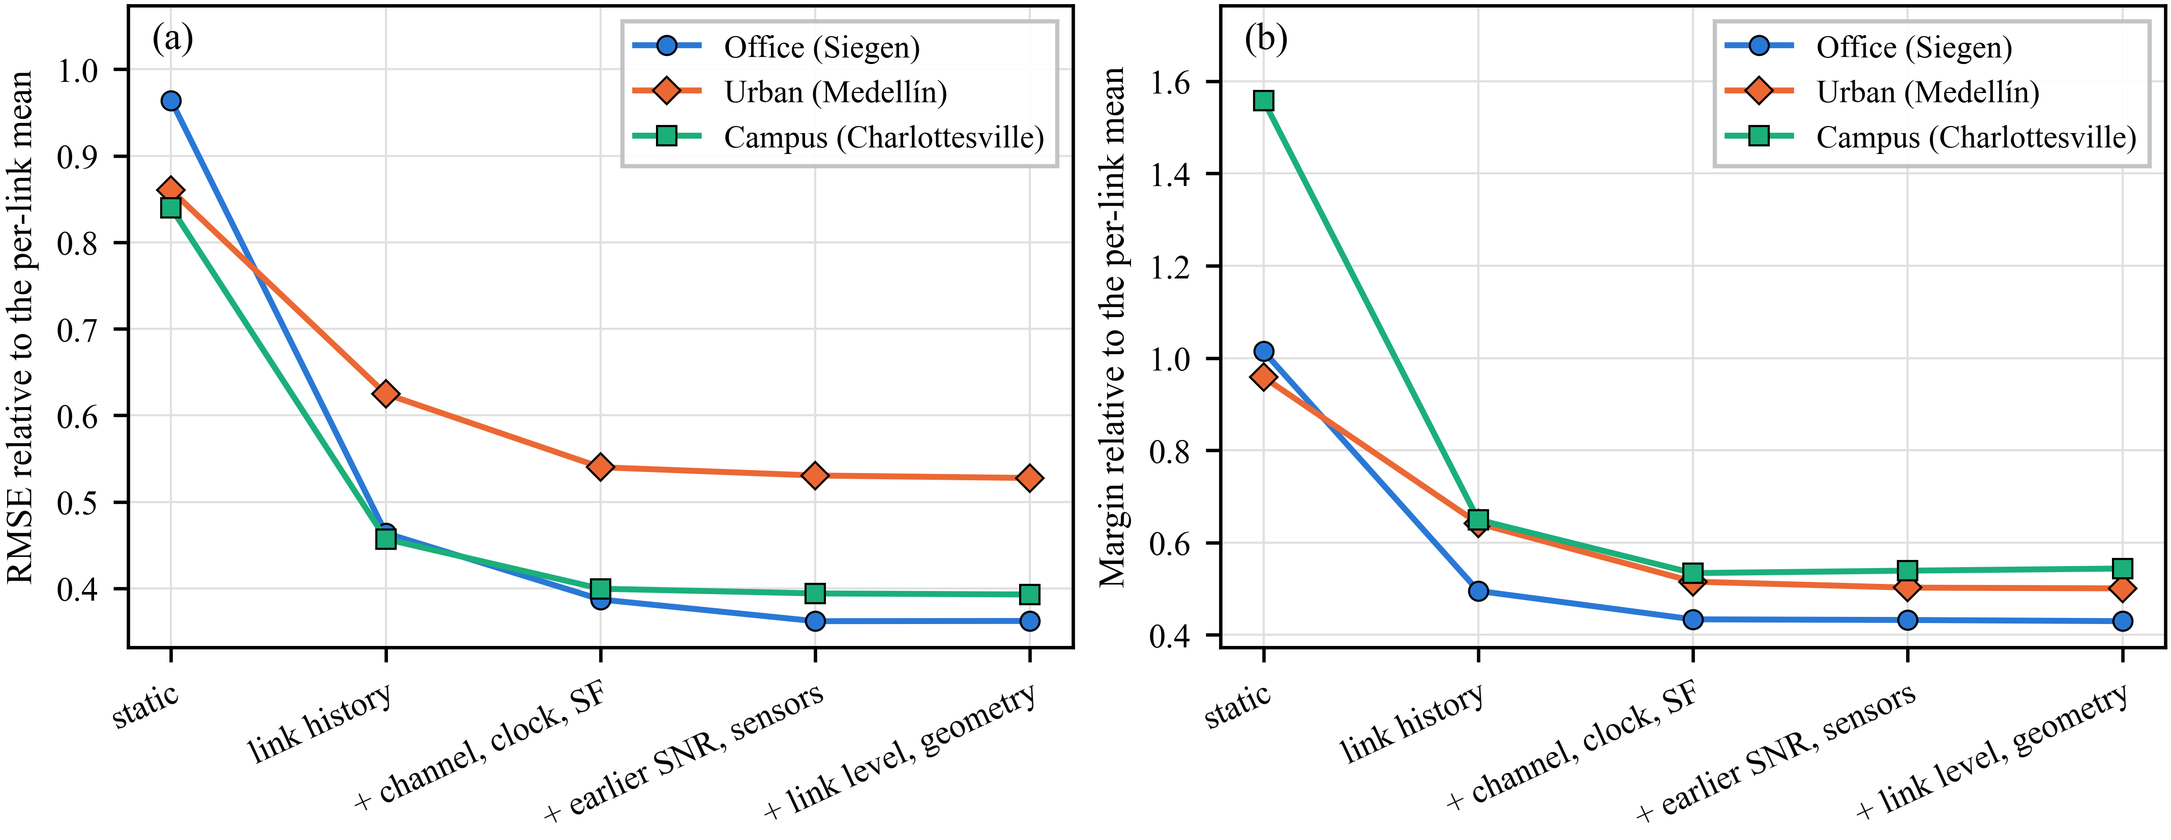
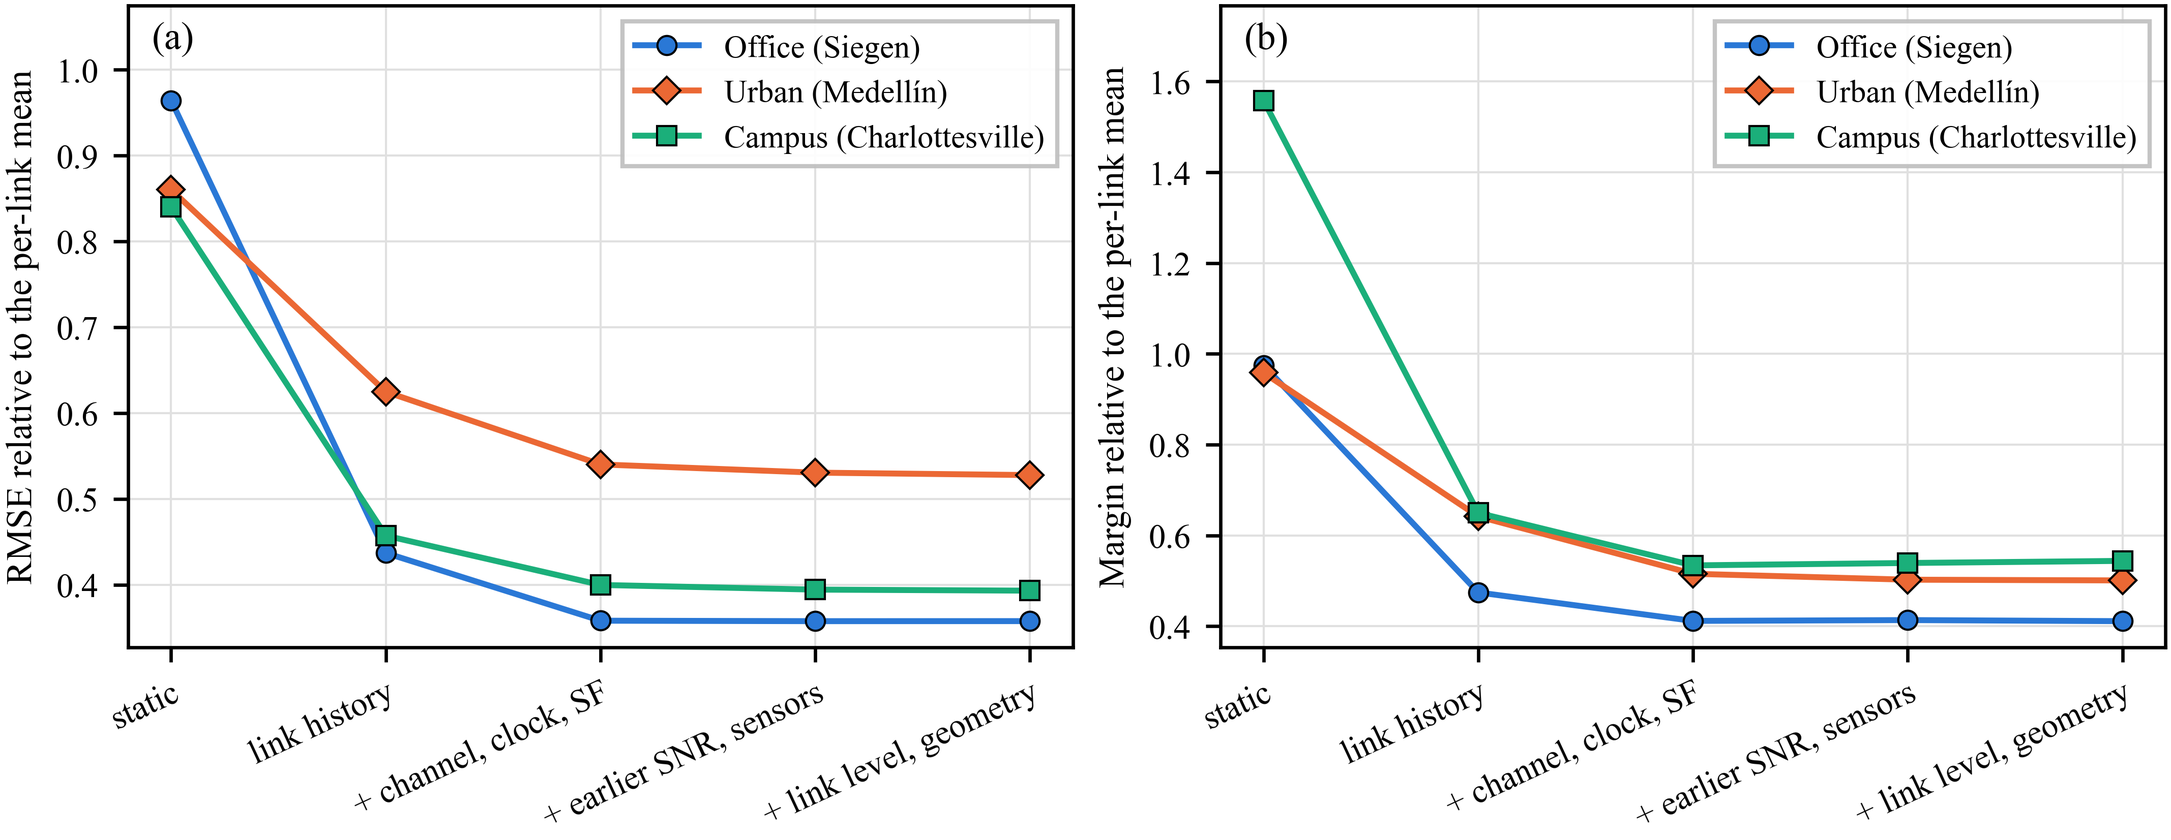
README: results of the ANN fix (ANN 4.52 dB, the best static model; static margins 17.8 to 18.5 dB; unseen link 6.4 to 11.0 dB; steps table; run times); the three ladder, margin and public-data figures were still the version-3 copies

diff --git a/README.md b/README.md
@@ -10,7 +10,7 @@
 
 This study compares analytical and empirical indoor propagation laws, linear models, tree ensembles, nearest-neighbour regression and neural networks on a later period of LoRaWAN path loss measurements. It then uses out-of-fold errors to estimate fade margins at specified residual-coverage targets, and asks how those margins depend on what the predictor knows: geometry and environmental sensors only, or also the link's own earlier packets.
 
-RMSE and the upper residual tail are distinct objectives. With geometry and sensors alone the 99% fade margin is 17.8 to 20.1 dB for every learned model and the calibrated COST 231 multi-wall model, although held-out RMSE ranges from 4.7 to 6.4 dB. With the link's earlier packets it falls to 7.7 to 9.8 dB when calibrated on the whole year, which includes SF11 and SF12 rows that the hold-out lacks. A margin that also conditions on the spreading factor and the state of the link needs about 4 dB on the hold-out. Notebooks 16 to 21 test the margins as quantile forecasts, compare the history models with the estimators of adaptive data rate schemes, measure what each group of inputs adds, repeat the ladder on two public datasets, and report the mean absolute error and the correlation within each link.
+RMSE and the upper residual tail are distinct objectives. With geometry and sensors alone the 99% fade margin is 17.8 to 18.5 dB for every learned model and the calibrated COST 231 multi-wall model, although held-out RMSE ranges from 4.5 to 6.4 dB. With the link's earlier packets it falls to 7.7 to 9.8 dB when calibrated on the whole year, which includes SF11 and SF12 rows that the hold-out lacks. A margin that also conditions on the spreading factor and the state of the link needs about 4 dB on the hold-out. Notebooks 16 to 21 test the margins as quantile forecasts, compare the history models with the estimators of adaptive data rate schemes, measure what each group of inputs adds, repeat the ladder on two public datasets, and report the mean absolute error and the correlation within each link.
 
 ## Experimental design
 
@@ -27,7 +27,7 @@ This gives 2,128,219 training observations (1 October 2024 to 21 July 2025) and 
 
 The end devices were restricted to spreading factors 7 to 10 in July 2025. The hold-out therefore contains SF11 or SF12 in only 33 of its rows, against 17 to 28% of the rows in the validation blocks, and margins calibrated on the validation blocks are conservative on it. The hold-out tests temporal transfer within the same building and six links; an unseen-link test fits on five links and predicts the sixth. Neither is evidence of generalisation to other buildings or link geometries.
 
-Early stopping uses the latest part of each training set in time order: for the ANN of notebook `07`, the latest tenth of the training rows within each fold and the latest training block in the final fit; the latest 10% of the rows for the ANN of the history notebooks.
+Early stopping uses the latest part of each training set in time order: for the ANN of notebook `07`, the latest tenth of the training rows within each fold and the latest training block in the final fit; the latest 10% of the rows for the ANN of the history notebooks. The ANN of notebook `07` seeds Keras directly (`keras.utils.set_random_seed`; under Keras 3, `tf.random.set_seed` leaves the initial weights, dropout and shuffling unseeded) and standardises its target inside each fit, so that two runs of the notebook give identical files; the static ANN of notebook `15` uses the same recipe.
 
 ## Main results
 
@@ -45,13 +45,13 @@ Early stopping uses the latest part of each training set in time order: for the 
 | XGBoost | 6.26 | 4.74 | 0.915 | 10.8 | 18.4 |
 | LightGBM | 6.25 | 4.77 | 0.914 | 10.8 | 18.3 |
 | k-nearest neighbours | 6.36 | 4.68 | 0.917 | 10.8 | 17.8 |
-| ANN (MLP) | 7.34 | 4.96 | 0.907 | 13.2 | 20.1 |
+| ANN (MLP) | 6.86 | 4.52 | 0.923 | 11.6 | 18.5 |
 
 *RMSE in dB. Out-of-fold RMSE pools the 1,773,515 validation rows; R² is computed from the held-out residual files; margins in dB at the 95% and 99% residual-coverage targets.*
 
-kNN leads at 4.68 dB (95% CI 4.43 to 4.92), resolved ahead of the random forest at 4.74 dB by 0.06 dB (CI 0.00 to 0.12) but not of XGBoost at 4.74 and LightGBM at 4.77 dB (0.07 and 0.09 dB, with intervals that include zero); the ANN at 4.96 dB is behind kNN by 0.28 dB (CI 0.12 to 0.45) and behind the random forest by 0.22 dB. kNN and the three tree ensembles are resolved ahead of the linear model, by 0.44 to 0.53 dB; the ANN's 0.25 dB is not. The ANN's out-of-fold RMSE is the highest of the learned models (7.34 dB) and its 99% margin the widest (20.1 dB); its one-standard-error selection among candidates that differ by tenths of a decibel of validation RMSE chose a 32/16 network without regularisation, whose 30-seed ensemble reaches 4.96 dB (single seeds 4.86 to 6.20 dB). The kNN's $k$ was searched from 100 to 50,000 together with the metric, the weighting and the scaling; the selected $k$ = 30,780 (Manhattan distance, distance weights) lies inside that range; it is 1.4% of the training rows, about 9% of the packets of one link, so the prediction is a heavily smoothed average. Every data-driven model beats the calibrated COST 231 multi-wall model by at least 1.2 dB and the fixed-parameter propagation models by at least 2.3 dB.
+The ANN leads at 4.52 dB (95% CI 4.28 to 4.75), resolved ahead of kNN at 4.68 dB by 0.16 dB (CI 0.04 to 0.26) and of the three tree ensembles by 0.22 to 0.25 dB; kNN is resolved ahead of the random forest at 4.74 dB by 0.06 dB (CI 0.00 to 0.12) but not of XGBoost at 4.74 and LightGBM at 4.77 dB (0.07 and 0.09 dB, with intervals that include zero). The five nonlinear models are resolved ahead of the linear model, by 0.44 to 0.69 dB. The ANN's one-standard-error selection, among candidates that differ by tenths of a decibel of validation RMSE, chose a 16/8/4 network with dropout 0.1 (421 parameters), whose 30-seed ensemble reaches 4.52 dB (single seeds 4.50 to 5.30 dB). The kNN's $k$ was searched from 100 to 50,000 together with the metric, the weighting and the scaling; the selected $k$ = 30,780 (Manhattan distance, distance weights) lies inside that range; it is 1.4% of the training rows, about 9% of the packets of one link, so the prediction is a heavily smoothed average. Every data-driven model beats the calibrated COST 231 multi-wall model by at least 1.2 dB and the fixed-parameter propagation models by at least 2.3 dB.
 
-At a 99% residual-coverage target the learned static models and COST 231 need 17.8 to 20.1 dB, at 98% 14.8 to 16.9 dB and at 95% 10.8 to 13.2 dB; the other propagation models need more. The spread between the learned models, 2.3 dB at 99%, comes mostly from the ANN; the five others lie within 0.7 dB. Every margin in this repository is the empirical quantile of the out-of-fold residuals, the split-conformal shift of `margin_tools.py`; a Gaussian-mixture tail estimate, with the number of components chosen by cross-validation over the time blocks, is reported next to it as a sensitivity check and lies within 0.3 dB of it at 99% for the static models and within 0.05 dB for every family on history rung H4 (notebook 09). Held-out coverage at the 99% margin is 99.7 to 99.8%, and a fixed 10 dB margin reaches 96.4 to 98.3%. Intervals come from a device-aware moving-block bootstrap.
+At a 99% residual-coverage target the learned static models and COST 231 need 17.8 to 18.5 dB, at 98% 14.8 to 15.5 dB and at 95% 10.8 to 11.6 dB; the other propagation models need more. The six learned models lie within 0.7 dB of each other at 99%. Every margin in this repository is the empirical quantile of the out-of-fold residuals, the split-conformal shift of `margin_tools.py`; a Gaussian-mixture tail estimate, with the number of components chosen by cross-validation over the time blocks, is reported next to it as a sensitivity check and lies within 0.5 dB of it at 99% for the static models and within 0.05 dB for every family on history rung H4 (notebook 09). Held-out coverage at the 99% margin is 99.7 to 99.8%, and a fixed 10 dB margin reaches 97.4 to 98.3%. Intervals come from a device-aware moving-block bootstrap.
 
 ### Link history
 
@@ -68,13 +68,13 @@ From here the response is the deviation of path loss from the link's previous-ho
 | XGBoost | 4.74 / 18.4 | 2.18 / 9.0 | 1.96 / 8.6 | 1.96 / 8.6 | 1.77 / 7.9 | 1.77 / 7.9 | 1.77 / 7.9 | 1.77 / 7.9 |
 | LightGBM | 4.77 / 18.3 | 2.16 / 8.9 | 1.89 / 8.3 | 1.89 / 8.3 | 1.77 / 7.7 | 1.77 / 7.7 | 1.77 / 7.8 | 1.77 / 7.7 |
 | k-nearest neighbours | 4.68 / 17.8 | 2.29 / 9.4 | 2.12 / 9.3 | 2.15 / 9.4 | 1.96 / 8.8 | 1.98 / 8.8 | 2.01 / 9.0 | 2.04 / 9.2 |
-| ANN (MLP) | 4.96 / 20.1 | 2.32 / 9.2 | 2.13 / 9.0 | 2.12 / 9.0 | 1.84 / 7.8 | 1.81 / 7.7 | 1.82 / 7.8 | 1.82 / 7.8 |
+| ANN (MLP) | 4.52 / 18.5 | 2.32 / 9.2 | 2.13 / 9.0 | 2.12 / 9.0 | 1.84 / 7.8 | 1.81 / 7.7 | 1.82 / 7.8 | 1.82 / 7.8 |
 
 *Hold-out RMSE / 99% fade margin, both in dB; the rungs are cumulative from left to right. The static column is the model of the table above. Without a fitted model: link mean 4.94 dB / 18.8 dB; previous-hour mean 2.48 dB / 10.6 dB; previous packet 2.96 dB / 12.0 dB.*
 
-Adding the link's earlier packets halves RMSE and brings the 99% margin from 17.8 to 20.1 dB to between 8.9 and 9.8 dB in every family. The later rungs lower RMSE further, to 1.8 dB for the boosted trees, and the margin by up to 1.5 dB more (the boosted trees reach 7.7 to 7.9 dB), in the tree ensembles and the ANN almost entirely through the same-channel history and the spreading factor. At the last rung the boosted trees, the random forest and the ANN end between 1.77 and 1.82 dB; kNN and the linear model are 0.2 to 0.4 dB behind.
+Adding the link's earlier packets halves RMSE and brings the 99% margin from 17.8 to 18.5 dB to between 8.9 and 9.8 dB in every family. The later rungs lower RMSE further, to 1.8 dB for the boosted trees, and the margin by up to 1.5 dB more (the boosted trees reach 7.7 to 7.9 dB), in the tree ensembles and the ANN almost entirely through the same-channel history and the spreading factor. At the last rung the boosted trees, the random forest and the ANN end between 1.77 and 1.82 dB; kNN and the linear model are 0.2 to 0.4 dB behind.
 
-Fitted on five links and tested on the sixth (rung H4), against the same model fitted on the same blocks with the link included, the tree ensembles reach 1.84 to 1.86 dB on the unseen link, at most 0.01 dB above the model that saw the link; the ANN reaches 1.87 dB, kNN 2.07 dB and the linear model 2.19 dB, and the largest penalty in any family is 0.02 dB (the ANN). Coverage at the calibrated 99% margin is 99.4 to 99.9% per unseen link. The static models do not transfer: fitted on five links with the settings of the table above, they reach 6.4 to 14.9 dB on the sixth as a mean over the six links, against 4.6 to 5.1 dB with the link in training (`CV_Results/unseen_link_static.csv`), the tree ensembles missing ED5, which lies beyond the 37 m of the other links, by 10 to 20 dB. The history model needs one other link: fitted on one other link, LightGBM on rung H4 predicts the held-out link at 1.89 dB on average, fitted on five at 1.84 dB, and with the link itself in training at 1.84 dB, against 2.47 dB for the anchor alone (`CV_Results/links_curve_H4.csv`).
+Fitted on five links and tested on the sixth (rung H4), against the same model fitted on the same blocks with the link included, the tree ensembles reach 1.84 to 1.86 dB on the unseen link, at most 0.01 dB above the model that saw the link; the ANN reaches 1.87 dB, kNN 2.07 dB and the linear model 2.19 dB, and the largest penalty in any family is 0.02 dB (the ANN). Coverage at the calibrated 99% margin is 99.4 to 99.9% per unseen link. The static models do not transfer: fitted on five links with the settings of the table above, they reach 6.4 to 11.0 dB on the sixth as a mean over the six links, against 4.5 to 5.1 dB with the link in training (`CV_Results/unseen_link_static.csv`), the tree ensembles missing ED5, which lies beyond the 37 m of the other links, by 10 to 20 dB. The history model needs one other link: fitted on one other link, LightGBM on rung H4 predicts the held-out link at 1.89 dB on average, fitted on five at 1.84 dB, and with the link itself in training at 1.84 dB, against 2.47 dB for the anchor alone (`CV_Results/links_curve_H4.csv`).
 
 ### Mean absolute error and correlation
 
@@ -88,7 +88,7 @@ Notebook 20 adds the mean absolute error and the Pearson correlation between mea
 | XGBoost | 3.74 [3.56, 3.93] | 4.74 | +1.36 | 0.915 | 0.961 [0.955, 0.966] | +0.11 [+0.09, +0.13] |
 | LightGBM | 3.77 [3.59, 3.96] | 4.77 | +1.45 | 0.914 | 0.961 [0.955, 0.966] | +0.12 [+0.10, +0.14] |
 | k-nearest neighbours | 3.61 [3.40, 3.82] | 4.68 | +0.91 | 0.917 | 0.963 [0.958, 0.969] | +0.05 [-0.02, +0.12] |
-| ANN (MLP) | 3.80 [3.53, 4.10] | 4.96 | -0.18 | 0.907 | 0.959 [0.952, 0.965] | -0.05 [-0.13, +0.04] |
+| ANN (MLP) | 3.50 [3.31, 3.70] | 4.52 | +0.52 | 0.923 | 0.961 [0.955, 0.967] | -0.09 [-0.16, -0.01] |
 | Link mean (no model) | 3.94 [3.76, 4.13] | 4.94 | +1.55 | 0.908 | 0.959 [0.954, 0.964] | constant per link |
 | Previous-hour mean (no model) | 1.84 [1.80, 1.87] | 2.48 | +0.00 | 0.977 | 0.988 [0.987, 0.989] | +0.81 [+0.78, +0.83] |
 | LightGBM + link history | 1.60 [1.58, 1.63] | 2.16 | +0.02 | 0.982 | 0.991 [0.990, 0.992] | +0.86 [+0.84, +0.88] |
@@ -97,9 +97,9 @@ Notebook 20 adds the mean absolute error and the Pearson correlation between mea
 
 *MAE, RMSE and bias in dB; r is the Pearson correlation between measured and predicted path loss. The first seven rows use geometry and sensors only; the last three use the rungs of the table above.*
 
-- **Over all links the correlation mostly identifies the link.** The mean path loss of the links spans 43 dB (66 dB for ED0, 109 dB for ED5) and 93% of the variance of the path loss on the hold-out lies between the links, so one constant per link scores 0.957 and every static machine-learning model between 0.951 and 0.961. COST 231 scores 0.924, the models with link history 0.988 to 0.994.
+- **Over all links the correlation mostly identifies the link.** The mean path loss of the links spans 43 dB (66 dB for ED0, 109 dB for ED5) and 93% of the variance of the path loss on the hold-out lies between the links, so one constant per link scores 0.959 and every static machine-learning model between 0.953 and 0.963. COST 231 scores 0.926, the models with link history 0.988 to 0.994.
 - **Within a link no static model follows the path loss in time.** Their correlation lies between -0.11 and +0.12, the previous-hour mean alone reaches 0.81 and the models with link history 0.83 to 0.91. The -0.11 of the physical models is the channel: the carrier frequency is their only input that changes within a link, a term of 0.005 dB, and a correlation does not depend on scale, so it equals the correlation of the measured path loss with the frequency.
-- **The MAE orders the static models like the RMSE, except for the ANN.** kNN, random forest, XGBoost, LightGBM, link mean and linear model stand in the same order by both measures; the ANN is fifth by MAE and sixth by RMSE. The static machine-learning models reach 3.61 dB (kNN) to 4.10 dB (linear), COST 231 5.05 dB and the models with link history 1.3 to 1.7 dB. The fitted static models and the link mean are biased by -0.2 to +1.6 dB on the summer hold-out, the models with link history by at most 0.25 dB.
+- **The MAE orders the static models like the RMSE.** ANN, kNN, random forest, XGBoost, LightGBM, link mean and linear model stand in the same order by both measures. The static machine-learning models reach 3.50 dB (ANN) to 4.10 dB (linear), COST 231 5.05 dB and the models with link history 1.3 to 1.7 dB. The fitted static models and the link mean are biased by +0.5 to +1.6 dB on the summer hold-out, the models with link history by at most 0.25 dB.
 
 ### Calibrating and validating the margins
 
@@ -171,19 +171,19 @@ Notebook 18 repeats the static benchmark with one LightGBM tuned separately on e
 - **Every subset with the geometry, and without the SNR of the same packet, is within 0.20 dB of the per-link mean.** The whole range is as large as the noise of the tuning: repeating the search and the fits for the same inputs moves the hold-out RMSE by up to 0.07 dB. Distance alone, which is the per-link mean up to shrinkage, lands 0.08 dB below it, so differences of that size are not resolved.
 - **The environment adds about 0.1 dB, not resolved from zero.** Added to the geometry it lowers the hold-out RMSE from 4.86 to 4.75 dB; added to geometry and channel, by 0.08 dB, with an interval from -0.19 to +0.03. Both are of the order of the tuning noise. The sensors alone remove 4% of the variance around one mean for all links, where the training mean of each link removes 91%.
 - **The SNR of the same packet, the predictor of the submitted manuscript, is worth 0.07 dB here, not resolved from zero.** Added to the benchmark it lowers the hold-out RMSE from 4.77 to 4.70 dB (-0.07 [-0.17, +0.04]) and raises the 99% shift from 18.28 to 18.40 dB. Link by link it ranges from -0.70 dB on ED5, the weakest link, to +0.50 dB on ED1, where the added input makes the model worse; every office link operates at a median SNR of 8.2 to 10.5 dB (`CV_Results/static_snr_leak.csv`). It is known only once the packet has been received, so it cannot enter a link budget; on the public datasets the same leak is worth 0.64 dB (Medellín) and 0.53 dB (campus).
-- **The link's history is the step.** It lowers the RMSE by 2.29 to 2.88 dB in every family. Of the groups that follow, the same-channel history changes the hold-out RMSE by -0.27 to -0.13 dB over the families and the spreading factor by -0.28 to -0.01 dB (negative: the added inputs help), while the SNR of earlier packets, the clock, the sensors and the link level with the geometry change it by no more than 0.04 dB in any family (table below).
+- **The link's history is the step.** It lowers the RMSE by 2.20 to 2.88 dB in every family. Of the groups that follow, the same-channel history changes the hold-out RMSE by -0.27 to -0.13 dB over the families and the spreading factor by -0.28 to -0.01 dB (negative: the added inputs help), while the SNR of earlier packets, the clock, the sensors and the link level with the geometry change it by no more than 0.04 dB in any family (table below).
 
 | Step | Linear regression | Random forest | XGBoost | LightGBM | k-nearest neighbours | ANN (MLP) |
 |---|---|---|---|---|---|---|
-| static to H1: link history | -2.88 | -2.69 | -2.68 | -2.69 | -2.32 | -2.29 |
-| H1 to H2: same-channel history | -0.13 | -0.15 | -0.22 | -0.27 | -0.14 | -0.18 |
+| static to H1: link history | -2.88 | -2.56 | -2.56 | -2.61 | -2.39 | -2.20 |
+| H1 to H2: same-channel history | -0.13 | -0.15 | -0.22 | -0.27 | -0.17 | -0.18 |
 | H2 to H3: clock | 0.00 | 0.00 | 0.00 | 0.00 | +0.03 | -0.01 |
 | H3 to H4: spreading factor | -0.01 | -0.23 | -0.19 | -0.12 | -0.19 | -0.28 |
-| H4 to H5: earlier SNR | 0.00 | 0.00 | 0.00 | 0.00 | -0.04 | -0.03 |
-| H5 to H6: sensors | 0.00 | 0.00 | 0.00 | 0.00 | +0.04 | 0.00 |
-| H6 to H7: level, geometry | 0.00 | 0.00 | 0.00 | 0.00 | +0.04 | 0.00 |
+| H4 to H5: earlier SNR | 0.00 | 0.00 | 0.00 | 0.00 | +0.02 | -0.03 |
+| H5 to H6: sensors | 0.00 | 0.00 | 0.00 | 0.00 | +0.03 | 0.00 |
+| H6 to H7: level, geometry | 0.00 | 0.00 | 0.00 | 0.00 | +0.03 | 0.00 |
 
-*Hold-out RMSE of the later rung minus that of the earlier rung, in dB (negative: the added inputs help), on the packets common to all models. The 95% intervals from resampling days have half-widths of 0.21 to 0.30 dB at the first step and at most 0.01 dB afterwards; they exclude zero except for Linear regression, Random forest, XGBoost, LightGBM (H6 to H7: level, geometry). All steps with their intervals are in `CV_Results/history_group_steps.csv`.*
+*Hold-out RMSE of the later rung minus that of the earlier rung, in dB (negative: the added inputs help), on the packets common to all models. The 95% intervals from resampling days have half-widths of 0.21 to 0.28 dB at the first step and at most 0.01 dB afterwards; they exclude zero except for Linear regression, Random forest, XGBoost, LightGBM (H6 to H7: level, geometry). All steps with their intervals are in `CV_Results/history_group_steps.csv`.*
 
 ### The same ladder on an independent public dataset
 
@@ -325,7 +325,7 @@ Run the numbered notebooks from the repository root. Their order is the dependen
 | Second public dataset | [`21_UVA_Ladder.ipynb`](21_UVA_Ladder.ipynb) | The ladder, the margins under drift and the unseen-sensor test on the campus metadata |
 | Manuscript tables | [`22_Paper_Tables.ipynb`](22_Paper_Tables.ipynb) | Dataset by device, spreading-factor schedule, selected hyperparameters and software versions, as CSV and LaTeX (`Tables/`) |
 
-The full benchmark is compute-intensive. Approximate wall-clock times on a workstation with 32 CPU cores, 60 GB of RAM and one NVIDIA RTX 5090, from the run of 21 and 22 October 2026 on version 4 of the data, in which the k-NN search ran beside the other notebooks:
+The full benchmark is compute-intensive. Approximate wall-clock times on a workstation with 32 CPU cores, 60 GB of RAM and one NVIDIA RTX 5090, from the run of 21 and 22 October 2026 on version 4 of the data, in which the k-NN search ran beside the other notebooks, and for `07` and the notebooks that read its outputs from the re-run of 23 and 24 October, one notebook at a time:
 
 | Notebook | Time |
 |---|---|
@@ -333,16 +333,16 @@ The full benchmark is compute-intensive. Approximate wall-clock times on a works
 | `04_XGBoost` | 66 min beside the k-NN search, 7 min alone (CUDA) |
 | `05_LightGBM` | 37 min |
 | `06_kNN` | 21.5 h: the search (400 candidates, $k$ up to 50,000) and the final fit and diagnostics (RAPIDS GPU) |
-| `07_ANN` | 2.9 h (CPU, deterministic operations; two-stage screen, 30-seed final ensemble) |
+| `07_ANN` | 3.3 h (CPU, deterministic operations; two-stage screen, 30-seed final ensemble) |
 | `08_SHADOW FADING ANALYSIS` | 42 min (mixtures with 1 to 8 components for six models, on all time blocks and leaving each one out) |
 | `09_FADE MARGIN ANALYSIS` | 3.5 h (margin calibration with the block bootstrap; H4 mixtures with 1 to 24 components for six families) |
 | `12_History_Features` | 1 min |
 | `13_History_Models` | 6.4 h |
 | `14_History_kNN` | 24 min |
-| `15_Information_by_Family` | 46 min |
-| `16_Margin_Calibration` | 19 min |
+| `15_Information_by_Family` | 71 min |
+| `16_Margin_Calibration` | 14 min |
 | `17_ADR_Estimators` | 1 min |
-| `18_Feature_Groups` | 18 min |
+| `18_Feature_Groups` | 14 min |
 | `19_Medellin_Ladder` | 7 min |
 | `20_Error_Metrics` | 35 s |
 | `21_UVA_Ladder` | 19 min |
